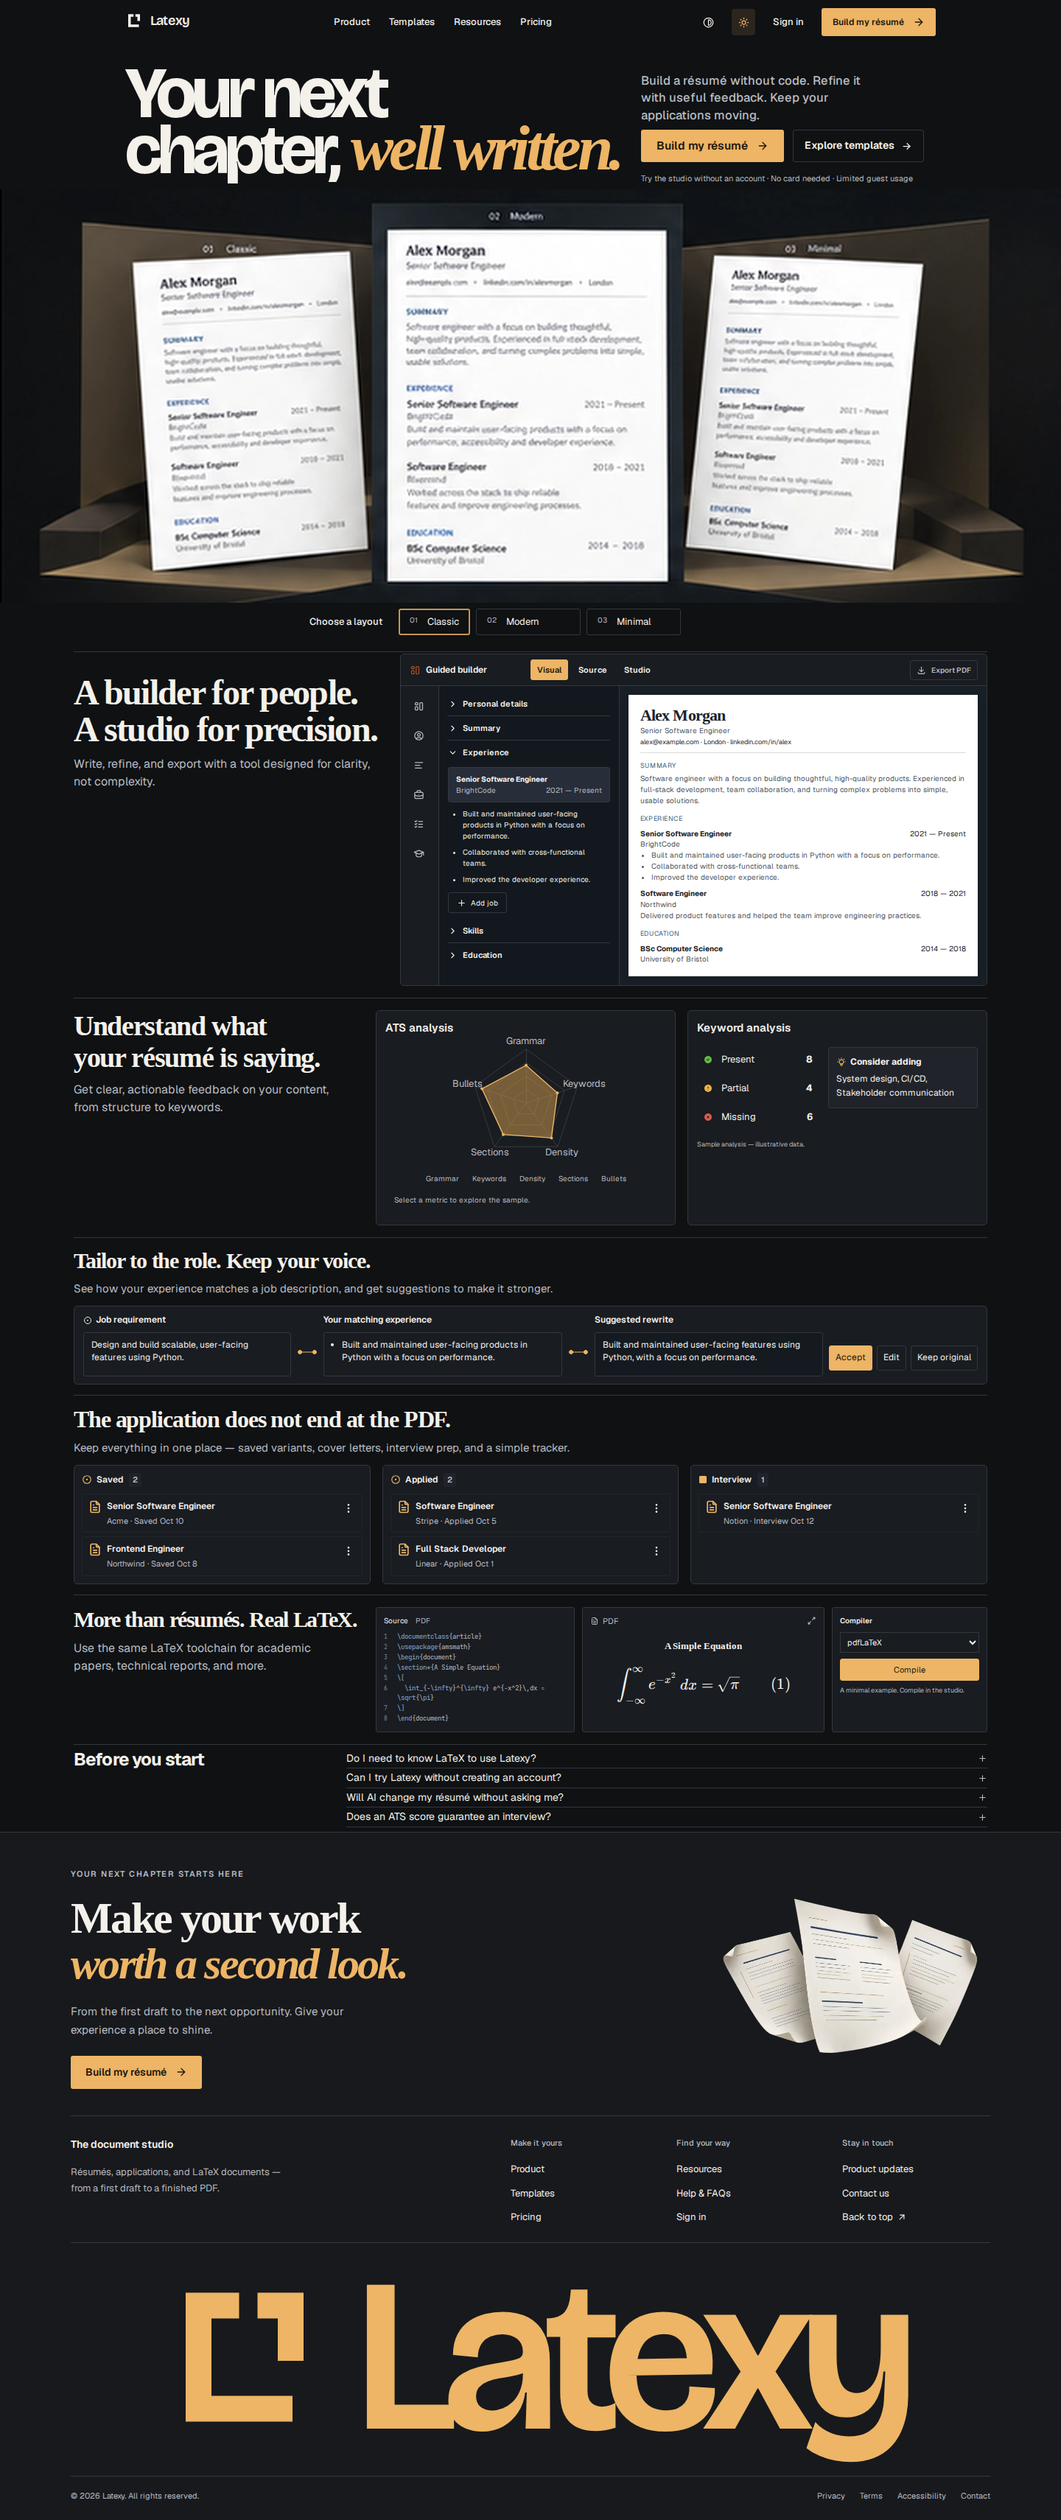
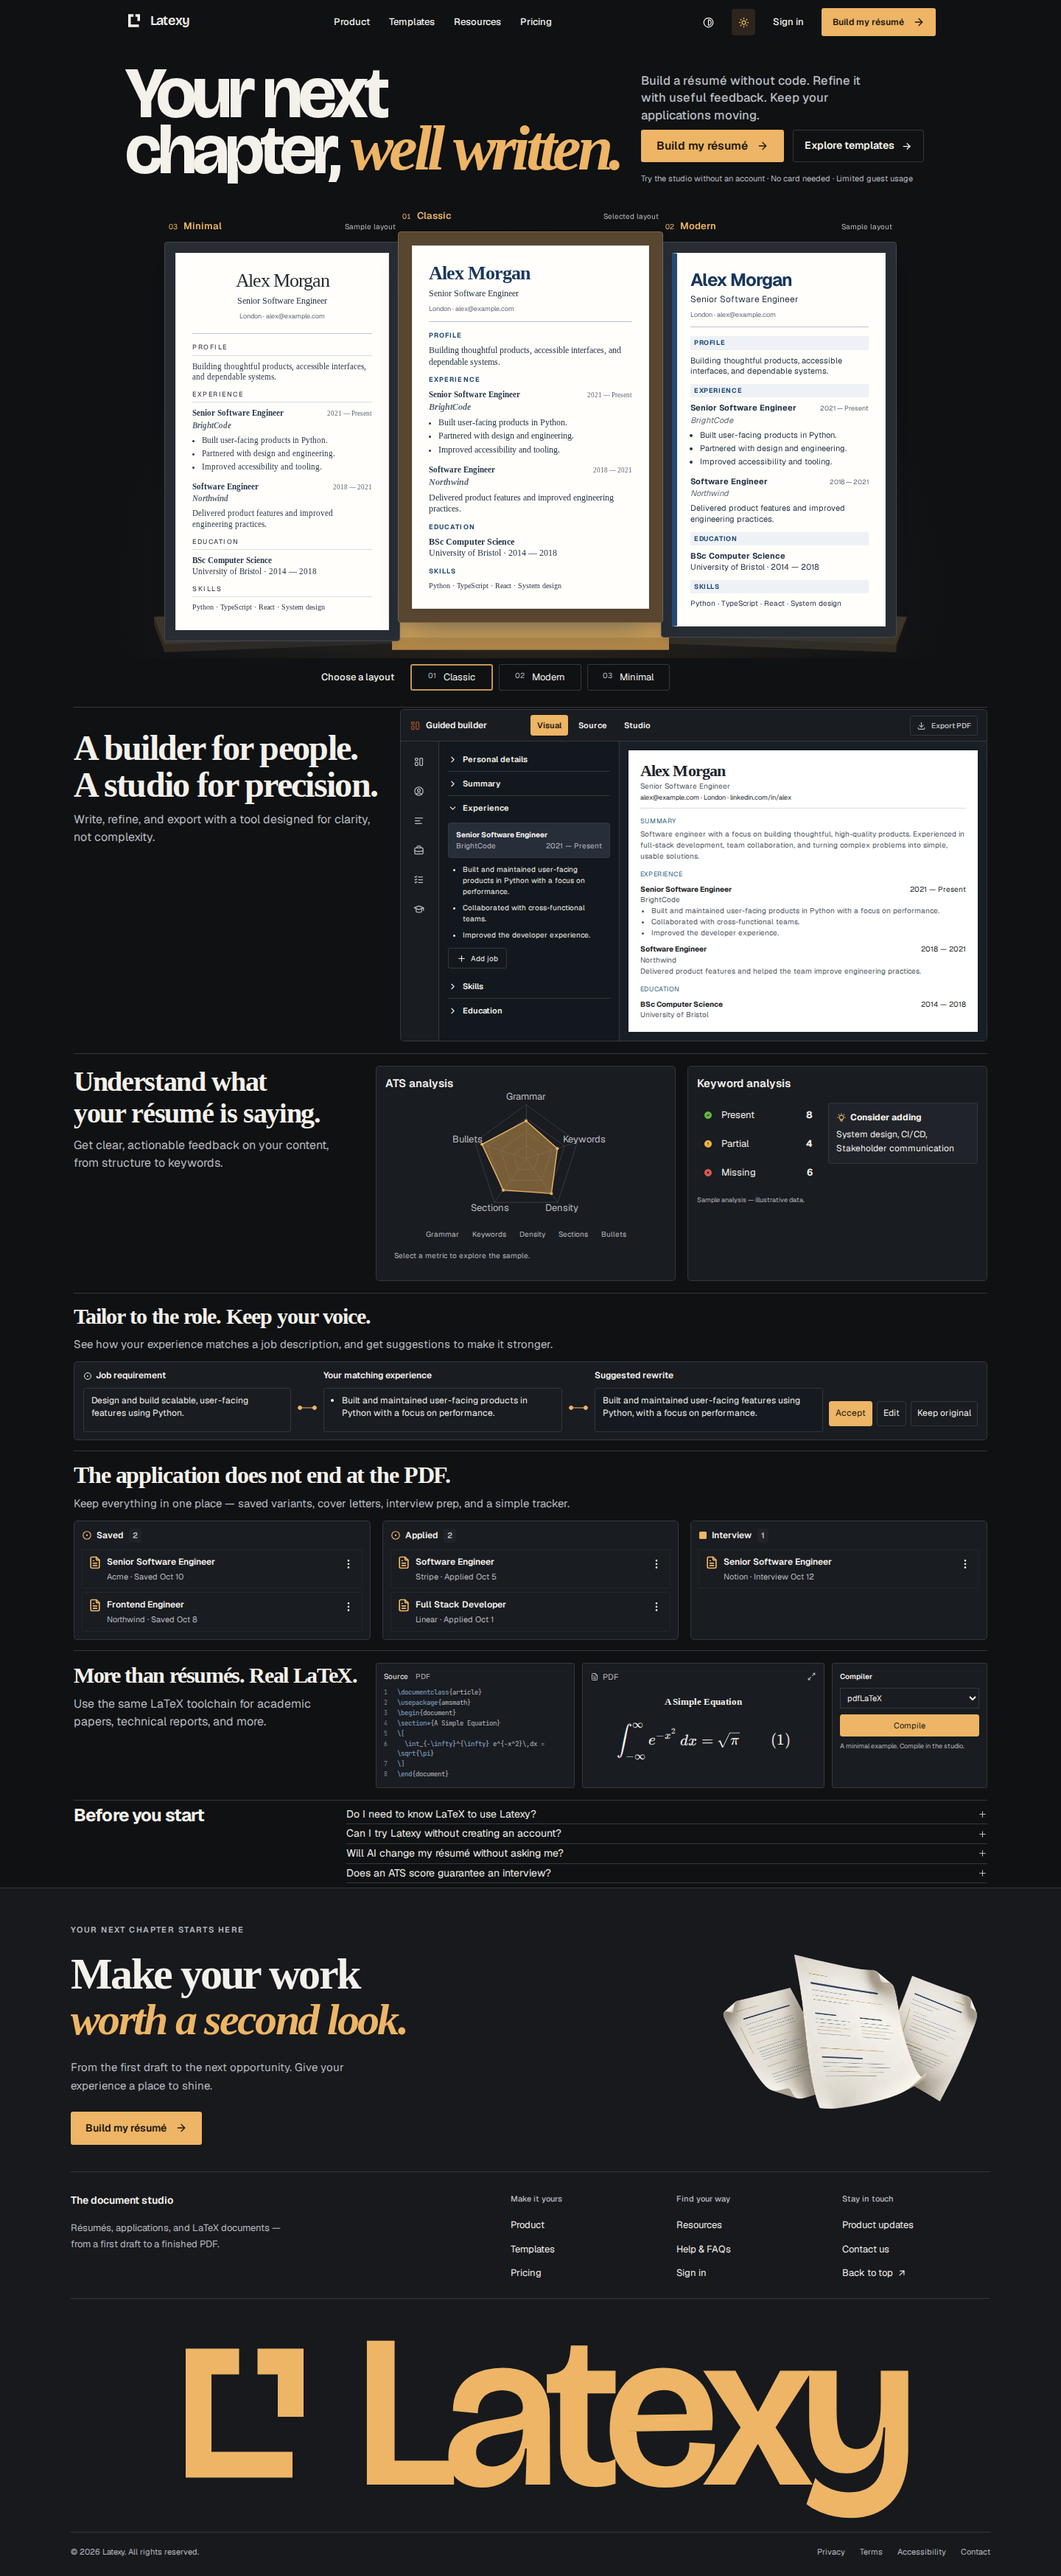
docs(marketing): publish verified native hero browser captures

diff --git a/design-qa.md b/design-qa.md
@@ -1,44 +1,35 @@
 # Hero document scene QA
 
-Scope: homepage hero/gallery only. Isolated worktree, branch `codex/hero-document-scene`, based on merged main `596927a1`.
+## Scope and production diagnosis
 
-## Production finding
+Homepage hero/gallery only, in the isolated `codex/hero-document-scene` worktree. Current main `24278325` is integrated; the primary checkout is untouched.
 
-Current-run in-app browser inspection of https://latexy.xyz/ confirms that the résumé demonstration is a raster image with baked-in text. The loaded image is 960 x 374 pixels, rendered approximately 1265 x 499 CSS pixels in the inspected desktop viewport. The displayed text is visibly soft. The earlier hero visual acceptance is withdrawn.
+Production browser inspection confirmed that the old demonstration enlarged a 960 x 374 raster to approximately 1265 x 499 CSS pixels. Its document text was baked in and visibly soft. The previous hero visual acceptance is withdrawn.
 
-## Replacement
+## Implementation
 
-- Real HTML résumé papers for Classic, Modern and Minimal. Text, headings, dates, rules and layout are native elements, not a document screenshot or texture.
-- Classic first/default; selection moves the actual chosen paper to centre. Keyboard arrows/Home/End and touch controls remain supported.
-- The existing Three.js dependency draws lit podium geometry, isolated from React rendering. Bounded pointer response, on-demand rendering, capped DPR and no perpetual animation.
-- Server-rendered documents remain visible without JavaScript. No-WebGL devices retain readable, selectable documents; context failure cannot remove the HTML.
-- Reduced motion resets pointer transforms and disables movement. Native theme tokens and high contrast remain supported.
-- Removed both gallery raster assets and image crop/zoom rules. Added scoped marketing instructions prohibiting screenshot-based hero demonstrations.
+- Native HTML Classic, Modern and Minimal resumes with selectable text, headings, dates and complete sample content. Classic is first/default. Keyboard arrows/Home/End and touch controls move the chosen document to centre.
+- Optional direct Three.js podium geometry, bounded pointer response, capped DPR, on-demand frames, offscreen/hidden-page suspension and resource cleanup. The selected reading surface stays flat.
+- Server-rendered documents remain visible without JavaScript. Missing WebGL, failed graphics imports, renderer failure and context loss retain native content. Reduced motion and high contrast are supported.
+- Removed both hero raster assets and crop/zoom rules. Scoped marketing instructions require native hero demonstrations and actual visual inspection.
+- Installed and applied `threejs-fundamentals` and `threejs-interaction` from CloudAI-X/threejs-skills. No dependency or React package changes.
 
-## Guidance
+## Findings resolved
 
-Installed personal skills: `threejs-fundamentals` and `threejs-interaction` from [CloudAI-X/threejs-skills](https://github.com/CloudAI-X/threejs-skills). Reviewed scene/camera/input/resource guidance and demand-driven rendering guidance. The scene uses direct Three.js with explicit frame scheduling and cleanup. No new dependencies were required.
+An initial React Three Fiber v8 integration failed under Next App Router's bundled React 19 runtime. The browser run caught the 500 fallback; no assertion was relaxed. Graphics now mount through a caught, isolated direct Three.js import.
 
-## Verification status
+Actual renders then revealed clipped side-frame edges, tablet occlusion and crowded captions near 1101px. Side papers moved up, widths up to 1000px show only the selected document, and compact card sizing extends through 1200px. Native and graphics breakpoints agree.
 
-TypeScript passed. Scoped lint and nine relevant marketing unit tests passed. The origin/SSR test is unchanged and passes after removing the new provider dependency.
+One earlier unchanged backend launcher test exceeded its existing 10-second setup budget. It was not patched. Backend tests passed unchanged on both subsequent source revisions after current main was integrated.
 
-New browser regression rejects hero images, disables WebGL, verifies keyboard selection, all three readable native layouts at 320px, overflow and reduced motion. Existing full-page light/dark, five-engine/profile, long-content and interaction tests remain intact. Required exact-head CI and new visual review are pending.
+## Final evidence
 
-The screenshots in `docs/design/landing/` currently describe the earlier merged design. They are historical evidence and will be refreshed from the new committed component before completion.
+- Captured source: `5f6803960196da3241a202842dff71698695d6af`.
+- [CI run 38694684031](https://github.com/sanskarpan/Latexy/actions/runs/38694684031): all source checks passed, including backend, build, lint, full-stack smoke, isolated real compile, browser quality and Vercel.
+- Browser quality: 173 passed, 7 skipped, 0 failed, 0 flaky across desktop Chromium/Firefox/WebKit and mobile Chromium/WebKit profiles.
[1 lines of base64/hex data omitted]
+- Inspected full-resolution light/dark gallery renders, Firefox/WebKit native text, 768/1024/1101px layouts and all three 320px no-WebGL layouts. Text and frame edges are complete; final caption spacing is clear. Existing full-page/section, keyboard, overflow, long-content and reduced-motion coverage remains intact.
+- `docs/design/landing/` contains actual unchanged browser PNGs from that artifact. `capture.json` records source/frontend tree, dimensions and file hashes. The screenshot publication commit preserves the captured frontend tree; its required exact-head checks remain a merge gate.
+- Public CI captures use isolated anonymous-session/allowed-feature fixtures. They do not claim live production backend contact. Production deployment is verified separately after merge.
 
-final result: blocked — fresh component renders and exact-head checks pending.
-
-## Browser failure diagnosis
-
[1 lines of base64/hex data omitted]
-
-The graphics integration now uses direct Three.js, mounted after hydration through a caught dynamic import. Native HTML remains independent of renderer creation, shader/context failure and graphics loading. The controller pauses offscreen/hidden, renders on demand, and disposes geometry, materials, renderer, observers and frame callbacks on unmount. Application React packages were not changed. Fresh browser renders are required before acceptance.
-
-## First native render review
-
[1 lines of base64/hex data omitted]
-
-The review identified P2 side-frame cropping at desktop and excessive card occlusion at 768px. Side papers move up 36px to clear the scene edge; widths at or below 1000px show the selected paper. The Three.js podium visibility follows that breakpoint. Browser assertions now cover complete visible-card bounds at desktop, mobile and 768/1024/1101px. Fresh captures are required for these corrections.
-
-A separate backend environment-isolation test timed out during four unchanged Node launcher setup commands under its 10-second budget. No backend files or test assertions were changed by this hero work; the same backend passed the prior run. Main advanced to `24278325` and was integrated without conflicts. Final checks will run again on that baseline, retaining the launcher test unchanged.
+final result: passed

diff --git a/docs/design/landing/README.md b/docs/design/landing/README.md
@@ -2,13 +2,13 @@
 
 These are actual browser renders copied unchanged from the CI artifact.
 
-- Captured source: `2e77fe739cf99ea808acc2e94a0841055ba7a6a7`
-- Frontend tree: `d01ba777b9aa7efb92b677ffb0034528824dd9cb`
-- [Capture workflow](https://github.com/sanskarpan/Latexy/actions/runs/38551530713)
+- Captured source: `5f6803960196da3241a202842dff71698695d6af`
+- Frontend tree: `de0ad31803e95da12c305c1e4b7c0cab0977ff9f`
+- [Capture workflow](https://github.com/sanskarpan/Latexy/actions/runs/38694684031)
 - Desktop: 1440 x 1000 CSS viewport, full page, Chromium at scale 1.
 - Mobile: Playwright Pixel 7 profile, 412 CSS pixels wide, full page.
 - Both themes use the actual mode control. Fonts and visible images load before capture; animations are disabled for inspection.
-- Focused footer captures show the Footer.design-inspired revision and the approved brand signature.
+- Focused hero captures show the real HTML document scene. Narrow captures verify all three native layouts without WebGL. Footer captures preserve the approved brand signature.
 - CI uses isolated anonymous-session and allowed-feature fixtures; these do not claim live production backend contact.
 
 `capture.json` records artifact provenance, dimensions and hashes. The publication commit must preserve the captured frontend tree.
